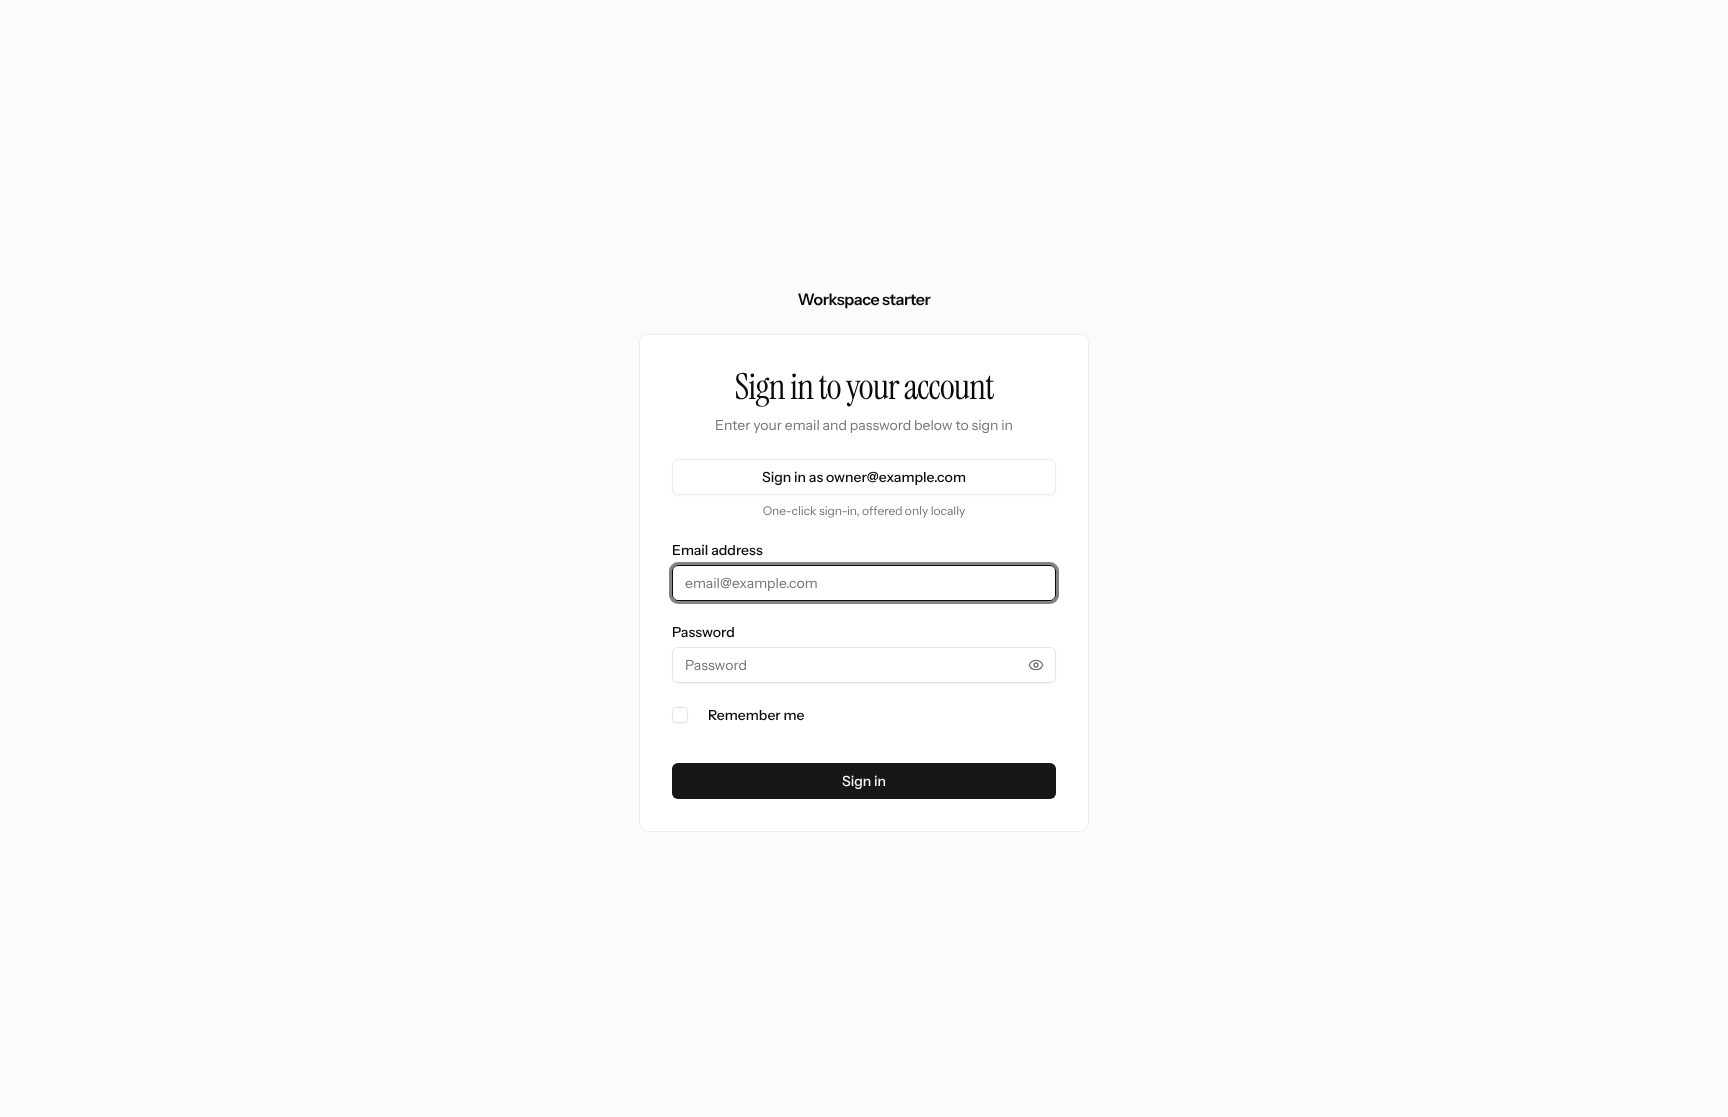
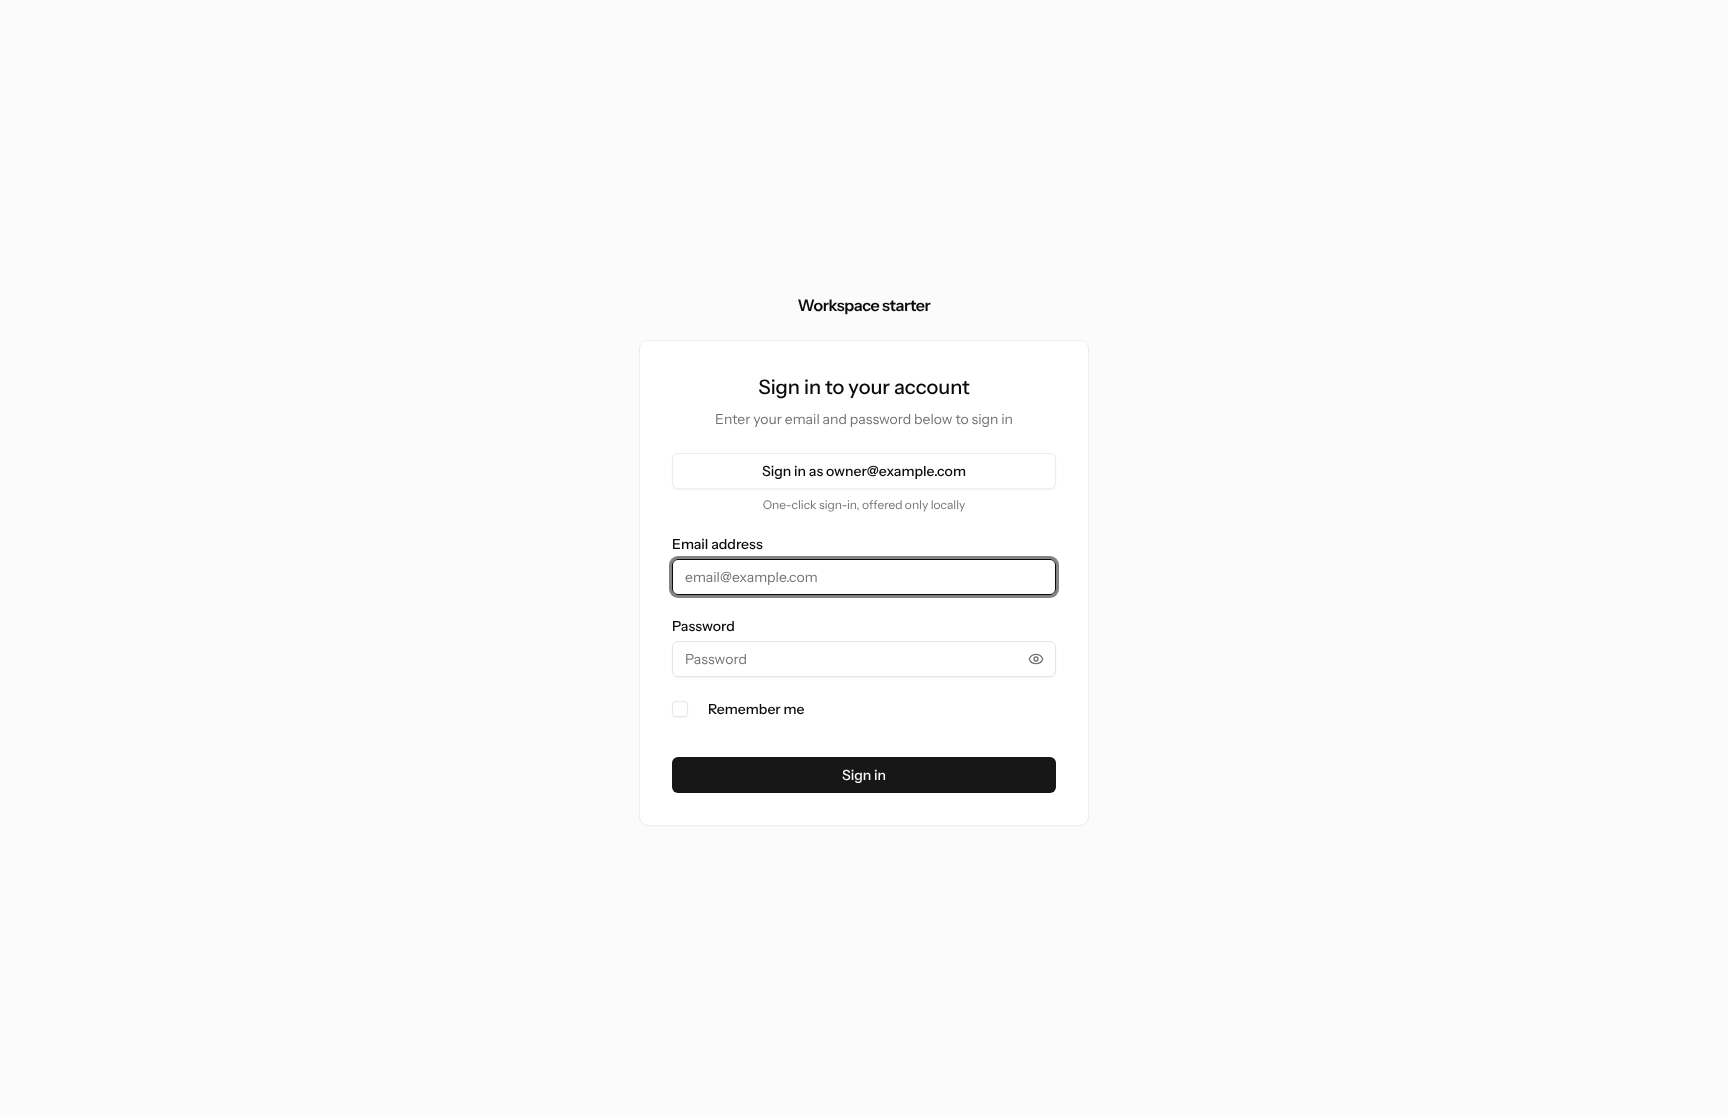
Use the kit's font sets and the starter kit's auth card heading (#53)
* Use the kit's font sets and the starter kit's auth card heading

Require tey/kit ^0.1.5. The layout loads fonts with <x-kit::fonts />
(KIT_FONTS), the Tailwind theme no longer overrides the kit's --font-*
variables, and the page title takes --font-display-weight. The browser
test checks the default set and instrument-inter by computed style.

The sign-in card heading is Laravel's Vue starter kit's: text-xl
font-medium in the text face. npm test guards that class. Sign-in
screenshot refreshed.

* Meet the workspaces host step in the kit parity check

tey/kit 0.1.3+ refuses kit:add until the user model implements
Concierge's Member through HasWorkspaces, as the template's does. The
parity script applies that to the clean app's User before kit:add.

diff --git a/resources/css/app.css b/resources/css/app.css
@@ -8,17 +8,8 @@
 @custom-variant dark (&:is(.dark *));
 
 @theme inline {
-    /* Loaded from fonts.bunny.net in resources/views/app.blade.php; the system stacks stand in until they arrive. */
-    --font-sans:
-        'Instrument Sans', ui-sans-serif, system-ui, sans-serif,
-        'Apple Color Emoji', 'Segoe UI Emoji', 'Segoe UI Symbol',
-        'Noto Color Emoji';
-    --font-serif:
-        'Instrument Serif', ui-serif, Georgia, Cambria, 'Times New Roman',
-        Times, serif;
-    --font-mono:
-        'IBM Plex Mono', ui-monospace, SFMono-Regular, Menlo, Monaco,
-        Consolas, 'Liberation Mono', 'Courier New', monospace;
+    /* --font-sans, --font-serif, --font-mono and --font-display-weight come from <x-kit::fonts /> (KIT_FONTS) in
+       resources/views/app.blade.php. Its unlayered :root block wins over Tailwind's theme layer. */
 
     --radius-lg: var(--radius);
     --radius-md: calc(var(--radius) - 2px);

diff --git a/resources/js/layouts/AppLayout.vue b/resources/js/layouts/AppLayout.vue
@@ -81,7 +81,7 @@ const crumbs = computed(() =>
                 data-shell-content
             >
                 <ShellBreadcrumbs :breadcrumbs="crumbs" />
-                <h1 v-if="page.props.title" class="mb-6 font-serif text-4xl tracking-tight">{{ page.props.title }}</h1>
+                <h1 v-if="page.props.title" class="mb-6 font-serif text-4xl tracking-tight [font-weight:var(--font-display-weight)]">{{ page.props.title }}</h1>
                 <slot />
             </div>
         </main>

diff --git a/resources/js/layouts/GuestLayout.vue b/resources/js/layouts/GuestLayout.vue
@@ -41,7 +41,7 @@ const product = computed(() => page.props.layout?.brand ?? '');
             data-guest-card
         >
             <div v-if="showHeading && title" class="space-y-2">
-                <h1 class="font-serif text-4xl tracking-tight text-foreground">
+                <h1 class="text-xl font-medium">
                     {{ title }}
                 </h1>
                 <p v-if="description" class="text-sm text-muted-foreground">

diff --git a/resources/js/pages/Auth/SignIn/Page.vue b/resources/js/pages/Auth/SignIn/Page.vue
@@ -21,7 +21,7 @@ defineProps<{
     <Head :title="title" />
 
     <div class="space-y-2 text-center">
-        <h1 class="font-serif text-4xl tracking-tight text-foreground">Sign in to your account</h1>
+        <h1 class="text-xl font-medium">Sign in to your account</h1>
         <p class="text-sm text-muted-foreground">Enter your email and password below to sign in</p>
     </div>
 

diff --git a/tests/Browser/SignIn.php b/tests/Browser/SignIn.php
@@ -59,6 +59,13 @@ it('signs the first owner in with one click and reaches the app shell', function
             ->assertSeeIn('[data-shell-nav]', 'Notes')
             ->assertNoJavaScriptErrors();
         settled($page)->screenshot(filename: 'workspace');
+
+        // Fonts come from the kit's set (KIT_FONTS): the text face on the body, the display face and weight on the page title.
+        $faces = fn (): array => $page->script('() => { const h1 = document.querySelector("[data-shell-bar] ~ * h1, main h1"); return [getComputedStyle(document.body).fontFamily, getComputedStyle(h1).fontFamily, getComputedStyle(h1).fontWeight]; }');
+        expect($faces())->sequence(fn ($f) => $f->toStartWith('"Instrument Sans"'), fn ($f) => $f->toStartWith('"Instrument Serif"'), fn ($f) => $f->toBe('400'));
+        config(['kit.fonts' => 'instrument-inter']);
+        $page->refresh();
+        expect($faces())->sequence(fn ($f) => $f->toStartWith('Inter'), fn ($f) => $f->toStartWith('"Instrument Sans"'), fn ($f) => $f->toBe('600'));
     } finally {
         putenv('APP_ENV='.$environment);
         app()['env'] = $environment;

diff --git a/tests/LifecycleTest.php b/tests/LifecycleTest.php
@@ -44,7 +44,7 @@ final class LifecycleTest extends TestCase
     {
         $this->assertSame('v0.9.1', InstalledVersions::getPrettyVersion('tey/mod'));
         $this->assertSame('v0.7.4', InstalledVersions::getPrettyVersion('tey/concierge'));
-        $this->assertSame('v0.1.2', InstalledVersions::getPrettyVersion('tey/kit'));
+        $this->assertSame('v0.1.5', InstalledVersions::getPrettyVersion('tey/kit'));
         $this->assertStringEndsWith('/vendor/tey/mod/src/Maintenance/Maintenance.php', (new ReflectionClass(Maintenance::class))->getFileName());
         $host = app(LifecycleHost::class);
         $this->assertInstanceOf(KitHost::class, $host);

diff --git a/resources/views/app.blade.php b/resources/views/app.blade.php
@@ -3,8 +3,7 @@
 <head>
     <meta charset="utf-8">
     <meta name="viewport" content="width=device-width, initial-scale=1">
-    <link rel="preconnect" href="https://fonts.bunny.net">
-    <link href="https://fonts.bunny.net/css?family=instrument-sans:400,500,600|instrument-serif:400,400i|ibm-plex-mono:400,500&display=swap" rel="stylesheet" />
+    <x-kit::fonts />
     @vite('resources/js/app.ts')
     @inertiaHead
 </head>

diff --git a/docs/testing.md b/docs/testing.md
@@ -58,7 +58,7 @@ vendor/bin/phpunit --bootstrap vendor/autoload.php tests/TransportTest.php
 | `InertiaTransportTest.php` | Inertia components and props, navigation, redirects, validation and error outcomes |
 | `NotesTransportTest.php` | Notes CRUD over session HTTP: tenant refusal, retries, stale versions, viewer and capability refusal, validation, audit rollback |
 | `McpTransportTest.php` | OAuth consent, code and token exchange, MCP JSON-RPC for settings and Notes, scope, origin, expiry and revocation limits |
-| `LifecycleTest.php` | `kit:add` of every feature through released tey/kit 0.1.2 and Mod 0.9 in temp checkouts: the written files equal the template's, a no-op rerun, adopting the template's own files by reviewed claim, an edited file refused, the fail-closed operation check, the console command |
+| `LifecycleTest.php` | `kit:add` of every feature through released tey/kit 0.1.5 and Mod 0.9 in temp checkouts: the written files equal the template's, a no-op rerun, adopting the template's own files by reviewed claim, an edited file refused, the fail-closed operation check, the console command |
 | `FeatureSeamsTest.php` | The 0.2.1 schema, routes and registry wiring, and databases migrated by 0.2 moving onto the kit migrations with their data |
 | `FeatureGraphTest.php` | The kit library's feature graph, and pages importing only their own folder |
 | `LocalLoginOfferTest.php` | The sign-in page offers Concierge's one-click local sign-in (and it signs in) exactly when `LocalLogin::isAvailable()` says so, and not otherwise |

diff --git a/docs/lifecycle.md b/docs/lifecycle.md
@@ -10,7 +10,7 @@ Boot never migrates, seeds, creates accounts or provisions workspaces. Registrat
 
 - The host's own migrations create `users` and `media` (medialibrary).
 - Each kit feature's migrations live in `database/migrations/kit/<feature>` (`0001_01_02_000NXX_*`) and load because the feature is adopted. Permission and Settings tables come from the locked packages' own migrations; Passport's and Concierge's migrations load from the packages.
-- tey/kit 0.1.2 orders core's migration before the workspaces table it references. PostgreSQL refuses that, so `App\Support\KitMigrator` runs core right after the workspaces table until the kit fixes its order.
+- tey/kit 0.1.5 still orders core's migration before the workspaces table it references. PostgreSQL refuses that, so `App\Support\KitMigrator` runs core right after the workspaces table until the kit fixes its order.
 - Re-running `migrate` is a no-op.
 
 ### Databases migrated by 0.2
@@ -33,5 +33,5 @@ Never edit a generated feature file (`database/migrations/kit/**`, the kit's pag
 ## Not available yet
 
 - `laravel new --using=tey/starter`: the template is not on Packagist yet.
-- tey/mod 0.10: tey/kit 0.1.2 requires tey/mod ^0.9, so the template stays on Mod 0.9 until the kit moves.
+- tey/mod 0.10: tey/kit 0.1.5 requires tey/mod ^0.9, so the template stays on Mod 0.9 until the kit moves.
 - `kit:add --all`: the command takes the feature list; `kit:list --json` prints it.

diff --git a/CHANGELOG.md b/CHANGELOG.md
@@ -7,6 +7,11 @@
 - Deploys run the tey/standards 0.7 preflight: `standards:preflight --skip=install.tables` after the build and before `migrate --force`, then the full preflight after it. CI runs the same order on a `--no-dev` production install against PostgreSQL (#47)
 - One-click local sign-in: `.env.example` turns on Concierge's `local_login` (`CONCIERGE_LOCAL_LOGIN=true`, signing in as `CONCIERGE_LOCAL_LOGIN_EMAIL`, by default `owner@example.com`), and the sign-in page shows "Sign in as …" whenever Concierge's `LocalLogin::isAvailable()` says so. Concierge keeps it to the local environment (#49)
 
+### Changed
+
+- Fonts come from tey/kit 0.1.5's font sets: `<x-kit::fonts />` loads the set `KIT_FONTS` names (`instrument` by default, `instrument-inter` or `hanken`), and the Tailwind theme no longer overrides the kit's `--font-*` variables. The page title takes the set's display weight (#51)
+- The sign-in card heading is Laravel's Vue starter kit's: `text-xl font-medium` in the text face, over a small muted description. `npm test` guards the class (#51)
+
 ### Fixed
 
 - A `--no-dev` install boots: the dev-only TypeScript transformer's provider is registered only when it is installed (#47)
